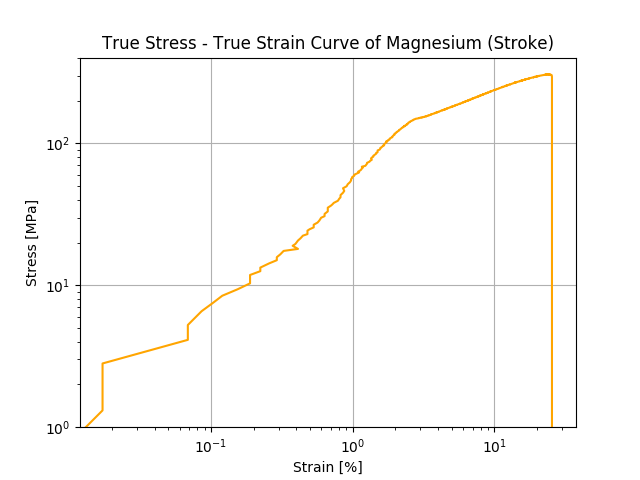
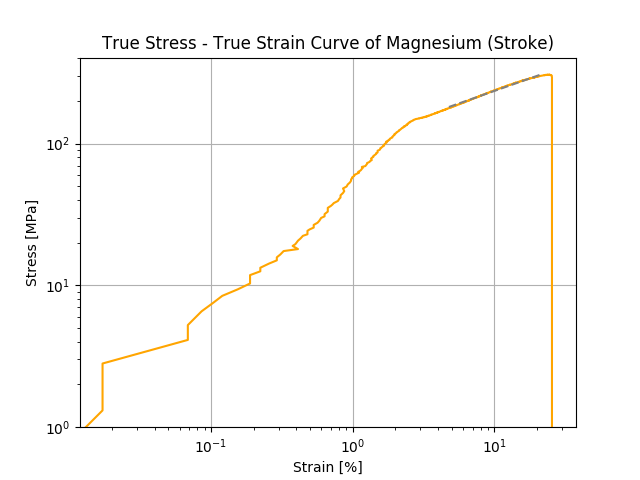
add Work Hardning Measurement Function

diff --git a/main.py b/main.py
@@ -211,7 +211,7 @@ def plotTrueSSCurve(df, material):
 
 
 # 両対数真応力歪み線図の描画
-def plotLogTrueSSCurve(df, material):
+def plotLogTrueSSCurve(df, linePoint, material):
     path = "./results/" + material + "/"
 
     x1 = np.log(1 + df["strain [%]"] / 100) * 100
@@ -236,6 +236,7 @@ def plotLogTrueSSCurve(df, material):
     # ストローク
     plt.figure()
     plt.plot(x2,y2, label = "Stroke", color=COLOR)
+    plt.plot(linePoint[0],linePoint[1], linestyle = "dashed", color="gray" )
     plt.title("True Stress - True Strain Curve of " + MATERIAL_MAPPER[material] + " (Stroke)")
     plt.xlabel("Strain [%]")
     plt.xscale('log')
@@ -279,7 +280,7 @@ def getYoungModulesLineByStress(df, tensile_strength, material):
                 strain_list.append(strain)
             if(stress > 0.33 * tensile_strength):
                 break
-    return calcYoungModules(np.array(strain_list), np.array(stress_list))
+    return calcLine(np.array(strain_list), np.array(stress_list))
 
 
 # ストロークからのヤング率の算出
@@ -306,7 +307,7 @@ def getYoungModulesLineByStressFromStroke(df, tensile_strength, material):
             if(stress > 0.33 * tensile_strength):
                 break
 
-    return calcYoungModules(np.array(strain_list), np.array(stress_list))
+    return calcLine(np.array(strain_list), np.array(stress_list))
 
 
 # 耐力の算出
@@ -367,7 +368,7 @@ def yieldStressLine(x, a,b):
     return a * (x - 0.2) + b
 
 
-def calcYoungModules(x,y):
+def calcLine(x,y):
     a, b= np.polyfit(x, y, 1)
     return a, b
 
@@ -426,7 +427,7 @@ def getBrokenPoint(df, tensile_strength, material):
     return [None, None]
 
 
-def printValues(material, tensile_strength, E_list, Y_list, broken_strain):
+def printValues(material, tensile_strength, E_list, Y_list, broken_strain, wh_index):
     E_strain = E_list[0][0] / 10
     Y_stress = Y_list[0][0]
 
@@ -442,17 +443,18 @@ def printValues(material, tensile_strength, E_list, Y_list, broken_strain):
     print("引張応力[MPa] :\t\t\t%.2f" % tensile_strength)
     print("ヤング率[GPa] :\t\t\t%.2f" % (E_strain / 10))
     print("破断伸び[%%] :\t\t\t%.2f" % broken_strain)
+    print("加工硬化指数[-] :\t\t%.3f" % wh_index)
     print("--------------------")
     print("")
 
-def wirteValues(material, tensile_strength, E_list, Y_list, broken_strain):
+def wirteValues(material, tensile_strength, E_list, Y_list, broken_strain, wh_index):
     E_strain = E_list[0][0] / 10
     Y_stress = Y_list[0][0]
 
     _E_strain_from_stroke = E_list[1][0] / 10
     Y_stress_from_stroke = Y_list[1][0]
 
-    filename = "./results/" + material + "/info."
+    filename = "./results/" + material + "/info.csv"
     file = open(filename, 'w')
     file.write("," + MATERIAL_MAPPER[material] + "\n")
     file.write("降伏応力（ゲージ）[MPa],%.2f" % Y_stress + "\n")
@@ -461,6 +463,7 @@ def wirteValues(material, tensile_strength, E_list, Y_list, broken_strain):
     file.write("引張応力[MPa],%.2f" % tensile_strength + "\n")
     file.write("ヤング率[GPa],%.2f" % E_strain + "\n")
     file.write("破断伸び[%%],%.2f" % broken_strain + "\n")
+    file.write("加工硬化指数[-],%.3f" % wh_index + "\n")
     file.close()
 
 
@@ -472,6 +475,50 @@ def convertPointToStrain(brokenPoint, E_strain):
     strain_diff = stress / E_strain
     return strain - strain_diff
 
+
+def getWHindex(df, material, yield_strain, tensile_strain):
+    strain_offset = (tensile_strain - yield_strain) * 0.1
+    if material == "Al":
+        measurement_range = [yield_strain + strain_offset, tensile_strain - strain_offset]
+    elif material == "Fe_ro":
+        measurement_range = [yield_strain + 2 * strain_offset, tensile_strain - strain_offset]
+    elif material == "Fe_water":
+        measurement_range = [yield_strain + strain_offset, tensile_strain - strain_offset]
+    elif material == "Mg":
+        measurement_range = [yield_strain + strain_offset, tensile_strain - strain_offset]
+    elif material == "PET":
+        measurement_range = [9, 10.22]
+    elif material == "Ti":
+        measurement_range = [yield_strain + strain_offset, tensile_strain - strain_offset]
+    else:
+        return None
+
+    stress_list = df["stress [MPa]"] * (1 + df["strain from stroke [%]"] / 100)
+    strain_list = np.log(1 + df["strain from stroke [%]"] /100) * 100
+    stress_line = []
+    strain_line = []
+
+    for (stress, strain) in zip(stress_list, strain_list):
+        if(strain > min(measurement_range)):
+            stress_line.append(stress)
+            strain_line.append(strain)
+            if(strain > max(measurement_range)):
+                break
+        else:
+            pass
+
+    stress_line = np.log10(stress_line)
+    strain_line = np.log10(strain_line)
+
+    n, b = calcLine(strain_line, stress_line)
+
+    linePoint = [np.power(10, [strain_line[0], strain_line[len(strain_line)-1]]), np.power(10, [n*strain_line[0] + b, n*strain_line[len(strain_line) -1] + b])]
+
+
+    return [n, linePoint]
+
+
+
 def executeMeasurement(material):
     df = readCsv(material)
     area = getArea(material)
@@ -482,6 +529,7 @@ def executeMeasurement(material):
 
     tensile_list = getTensileStrength(df)
     tensile_strength = tensile_list[0]
+    tensile_strain_from_stroke = tensile_list[2]
 
     E_strain, E_strain_b = getYoungModulesLineByStress(df, tensile_strength, material)
     E_strain_from_stroke, E_strain_from_stroke_b = getYoungModulesLineByStressFromStroke(df, tensile_strength, material)
@@ -494,17 +542,24 @@ def executeMeasurement(material):
     brokenPoint = getBrokenPoint(df, tensile_strength, material)
     broken_strain = convertPointToStrain(brokenPoint, E_strain)
 
+    wh_index, linePoint = getWHindex(df, material, yield_strain_from_stroke, tensile_strain_from_stroke)
+
     plotNorminalSSCurve(df, tensile_list, E_list, Y_list, brokenPoint, material)
+    plt.close()
     plotTrueSSCurve(df, material)
-    plotLogTrueSSCurve(df, material)
+    plt.close()
+    plotLogTrueSSCurve(df, linePoint, material)
+    plt.close()
+
 
     # plt.show()
 
-    # printValues(material, tensile_strength, E_list, Y_list, broken_strain)
-    # wirteValues(material, tensile_strength, E_list, Y_list, broken_strain)
+    # printValues(material, tensile_strength, E_list, Y_list, broken_strain, wh_index)
+    wirteValues(material, tensile_strength, E_list, Y_list, broken_strain, wh_index)
 
 if __name__ == "__main__":
     materials = ["Al", "Fe_ro", "Fe_water", "Mg", "PET", "Ti"]
     for material in materials:
         executeMeasurement(material)
+    # executeMeasurement("Fe_ro")
     # plt.show()
